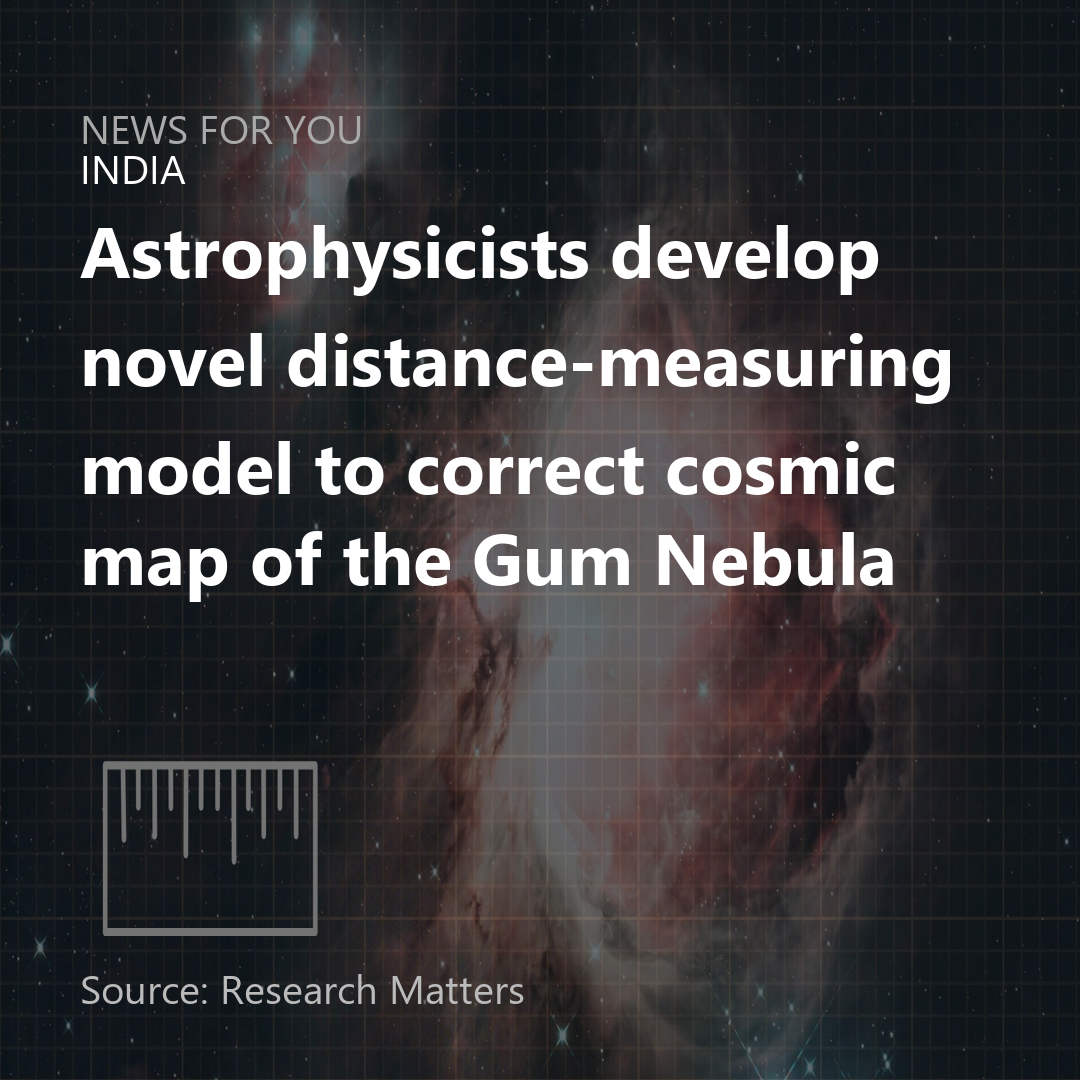
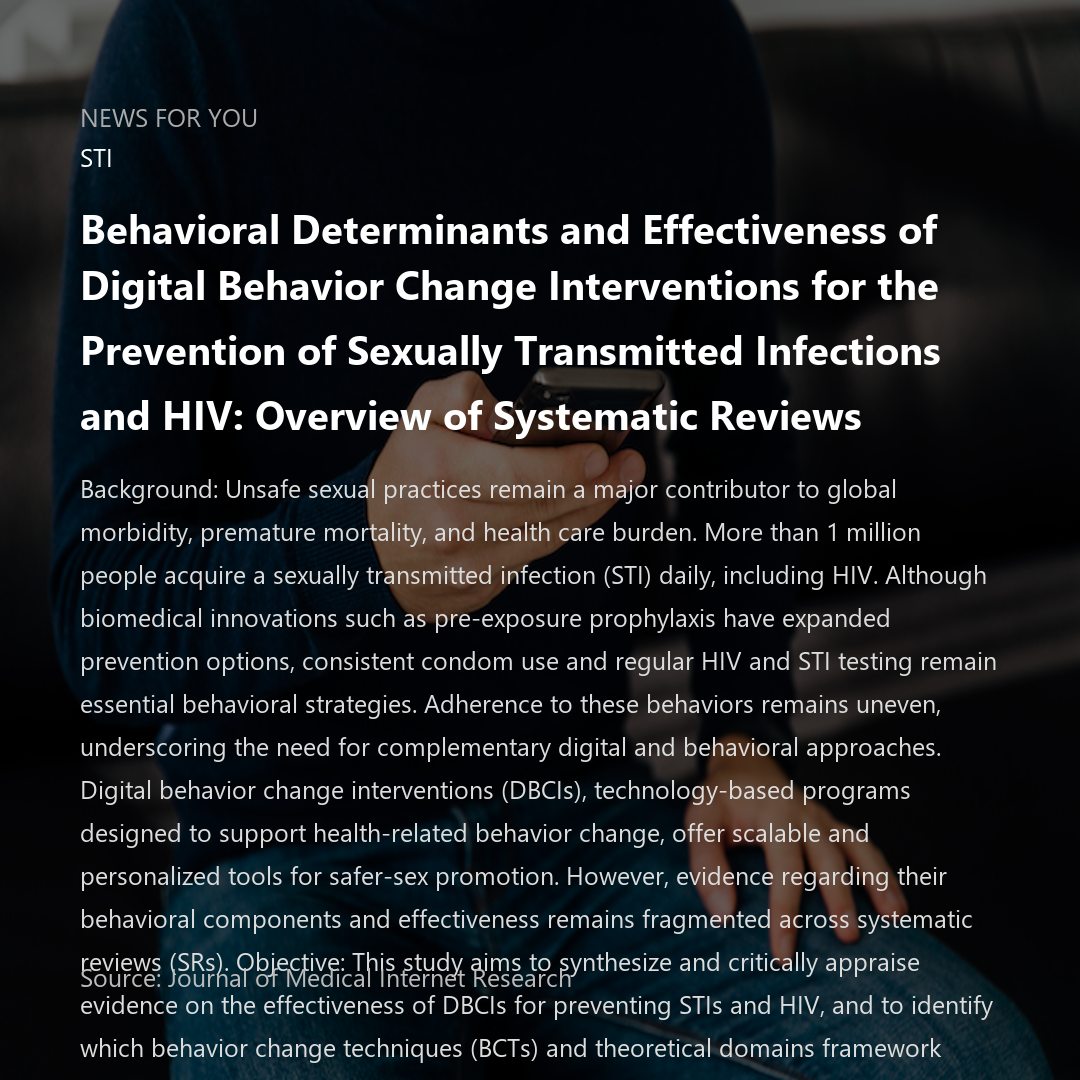
alignment

diff --git a/main.py b/main.py
@@ -131,6 +131,28 @@ final_report = generate_trending_report(raw_news)
 
 print("JSON saved successfully!")
 
+def draw_wrapped_text(draw, text, font, x, y, max_width, fill, line_spacing=8):
+    words = text.split()
+    lines = []
+    line = ""
+
+    for word in words:
+        test = f"{line} {word}".strip()
+        if draw.textlength(test, font=font) <= max_width:
+            line = test
+        else:
+            lines.append(line)
+            line = word
+    if line:
+        lines.append(line)
+
+    for ln in lines:
+        draw.text((x, y), ln, fill=fill, font=font)
+        y += font.getbbox(ln)[3] + line_spacing
+
+    return y  # return where the next text should start
+
+
 def generate_trending_image(report):
     if not report["trending_topics"]:
         print("No trending topics found.")
@@ -142,6 +164,7 @@ def generate_trending_image(report):
 
     title = article["title"]
     source = article["source"]
+    desc = article["desc"]
 
     WIDTH, HEIGHT = 1080, 1080
 
@@ -156,35 +179,45 @@ def generate_trending_image(report):
     # Fonts (fallback-safe)
     FONT_BOLD = r"C:\Windows\Fonts\segoeuib.ttf"
     FONT_REG  = r"C:\Windows\Fonts\segoeui.ttf"
-    title_font = ImageFont.truetype(FONT_BOLD, 72)
-    meta_font  = ImageFont.truetype(FONT_REG, 40)
+    title_font = ImageFont.truetype(FONT_BOLD, 40)
+    meta_font  = ImageFont.truetype(FONT_REG, 25)
+    desc_font = ImageFont.truetype(FONT_REG, 25)
 
     # Layout
     margin_x = 80
     y = 200
     max_width = WIDTH - 2 * margin_x
 
+    y = 200
+
     # Header
     draw.text((margin_x, 100), "NEWS FOR YOU", fill="#aaaaaa", font=meta_font)
     draw.text((margin_x, 140), topic_name.upper(), fill="#ffffff", font=meta_font)
 
-    # Wrapped title
-    words = title.split()
-    lines = []
-    line = ""
+    # Title
+    y = draw_wrapped_text(
+        draw=draw,
+        text=title,
+        font=title_font,
+        x=margin_x,
+        y=y,
+        max_width=max_width,
+        fill="white",
+        line_spacing=12
+    )
 
-    for word in words:
-        test = f"{line} {word}".strip()
-        if draw.textlength(test, font=title_font) <= max_width:
-            line = test
-        else:
-            lines.append(line)
-            line = word
-    lines.append(line)
+    y += 20  # space between title and description
 
-    for ln in lines:
-        draw.text((margin_x, y), ln, fill="white", font=title_font)
-        y += title_font.getbbox(ln)[3] + 12
+    y = draw_wrapped_text(
+        draw=draw,
+        text=desc,
+        font=desc_font,
+        x=margin_x,
+        y=y,
+        max_width=max_width,
+        fill="#dddddd",
+        line_spacing=10
+    )
 
     # Footer
     draw.text(
@@ -197,7 +230,5 @@ def generate_trending_image(report):
     filename = "top_trending_topic.png"
     img.save(filename, quality=95)
     print(f"Trending image generated: {filename}")
-
-    
 
 generate_trending_image(final_report)
